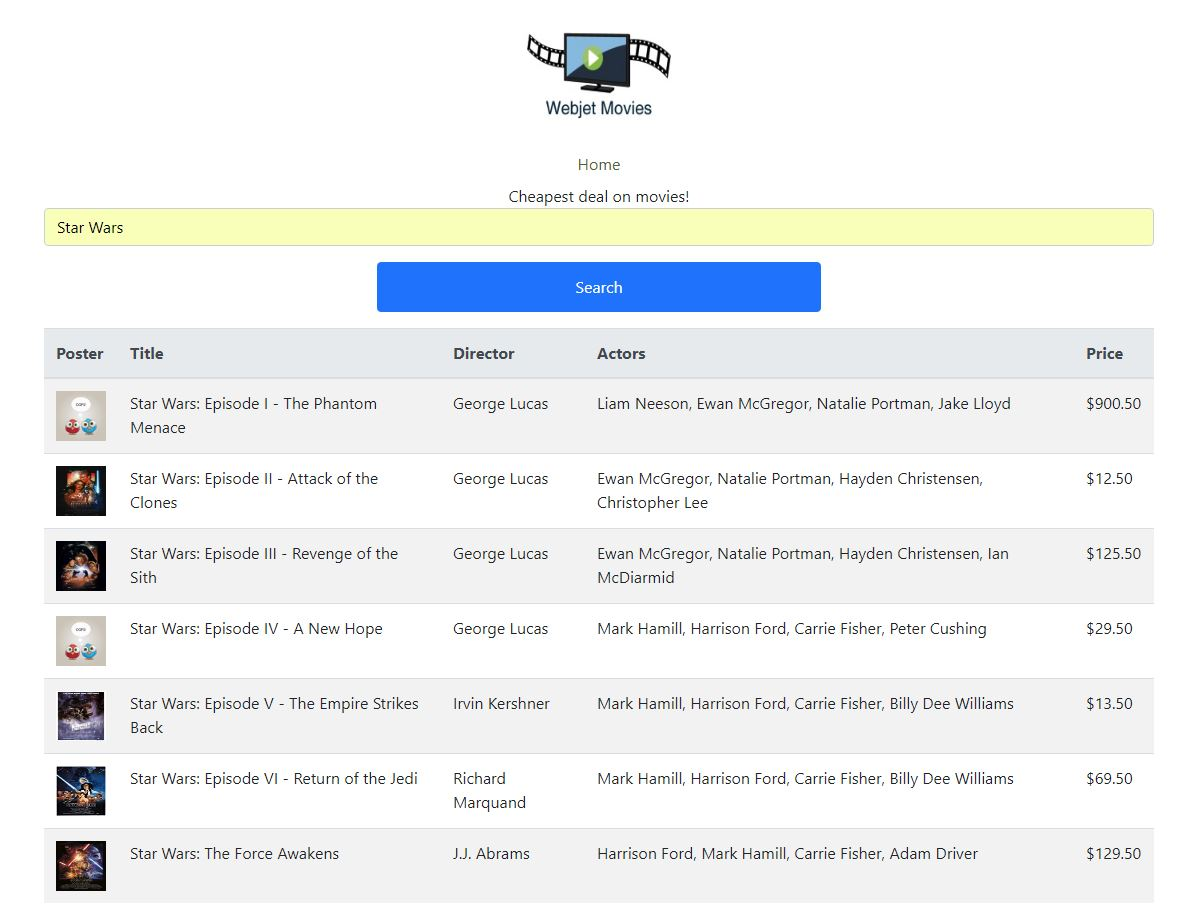
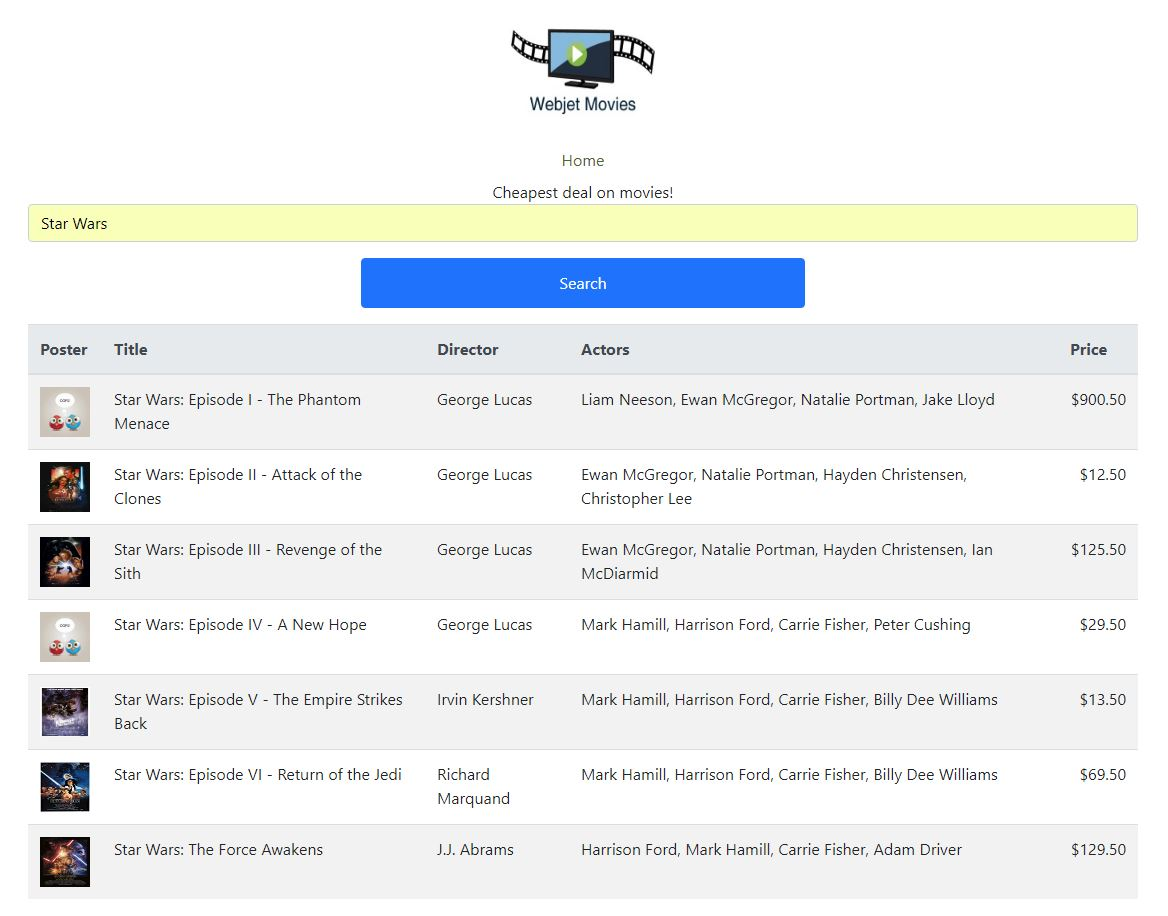
minor style fix. replaced screenshot.

diff --git a/webjet-ui/src/app/components/home/home.component.html b/webjet-ui/src/app/components/home/home.component.html
@@ -36,7 +36,7 @@
               <td>{{movie.movie.title}}</td>
               <td>{{movie.movie.director}}</td>
               <td>{{movie.movie.actors}}</td>
-              <td>{{movie.movie.price | currency:'USD'}}</td>
+              <td style="text-align: right">{{movie.movie.price | currency:'USD'}}</td>
             </tr>
       </tbody>  
 </table>
